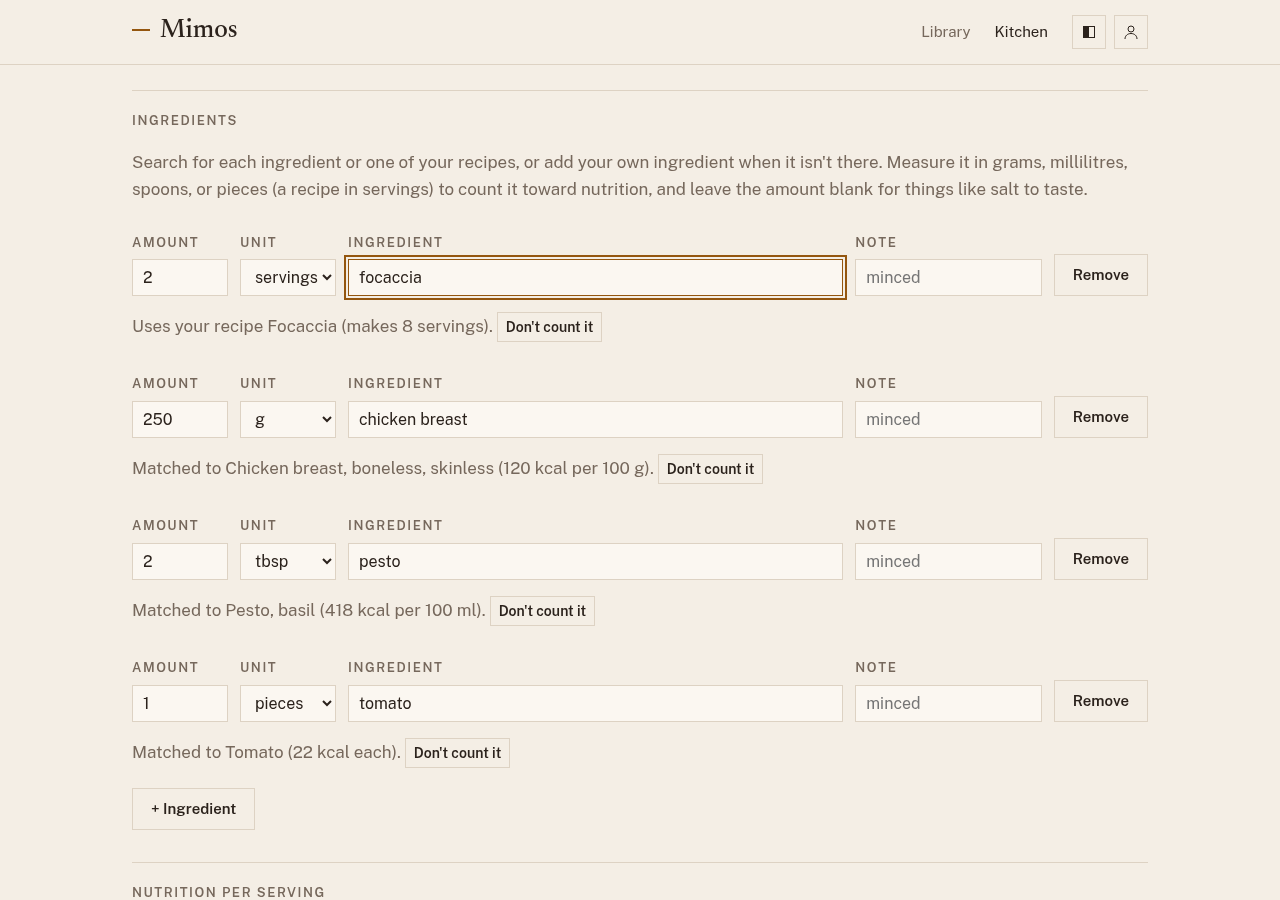
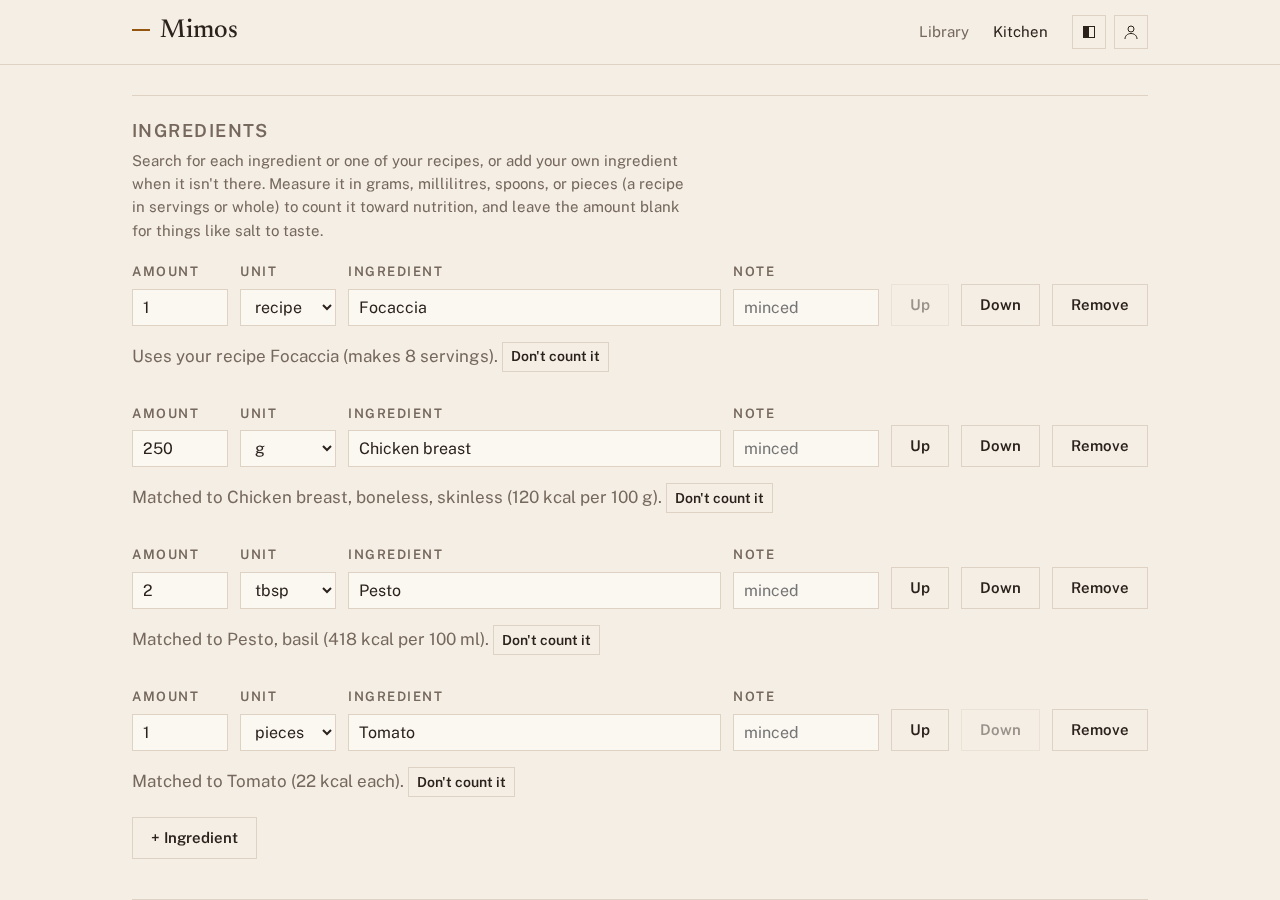
feat(web): label the whole-recipe unit recipe and cover it in the scenario
"whole recipe" did not fit the unit select. The recipe-as-ingredient
scenario now counts the whole focaccia and checks the 1x line; the guide's
screenshot shows it.

diff --git a/tools/harness/scenarios/recipe-as-ingredient.spec.ts b/tools/harness/scenarios/recipe-as-ingredient.spec.ts
@@ -6,7 +6,8 @@ import { expect, test } from "./fixtures.ts";
  * servings, and the sandwich's calculated nutrition counts it. The numbers
  * follow from the seeded ingredients: 500 g all-purpose flour and 50 ml
  * olive oil make 278 kcal a serving for 8; two servings of that and two
- * 22 kcal tomatoes make 300 kcal a serving for 2.
+ * 22 kcal tomatoes make 300 kcal a serving for 2. The whole focaccia
+ * (1 recipe, all 8 servings) and the tomatoes make 1134 kcal a serving.
  */
 test("uses one of your recipes as an ingredient", async ({ loggedInPage: page }) => {
   // Unique per run: the search must find this run's focaccia, not an earlier one's.
@@ -61,13 +62,18 @@ test("uses one of your recipes as an ingredient", async ({ loggedInPage: page })
     await expect(nutrition).toContainText("300 kcal");
   });
 
-  await test.step("a recipe counts in servings only", async () => {
+  await test.step("a recipe counts in servings or whole", async () => {
     await page.getByLabel("Ingredient 1 unit").selectOption("g");
-    await expect(row(1)).toContainText("Not counted. A recipe counts in servings.");
+    await expect(row(1)).toContainText("Not counted. A recipe counts in servings or as a whole recipe.");
     await page.getByLabel("Ingredient 1 unit").selectOption("servings");
     await expect(row(1)).not.toContainText("Not counted.");
     await expect(nutrition).toContainText("300 kcal");
     await expect(page.getByText("Counting 2 of 2 ingredients.")).toBeVisible();
+
+    await page.getByLabel("Ingredient 1 amount").fill("1");
+    await page.getByLabel("Ingredient 1 unit").selectOption("recipe");
+    await expect(row(1)).not.toContainText("Not counted.");
+    await expect(nutrition).toContainText("1134 kcal");
   });
 
   await test.step("save, and follow the line to the recipe it uses", async () => {
@@ -75,8 +81,9 @@ test("uses one of your recipes as an ingredient", async ({ loggedInPage: page })
     await page.getByRole("button", { name: "Create recipe" }).click();
     const recipe = page.locator("article.recipe");
     await expect(recipe.getByRole("heading", { name: sandwich, level: 1 })).toBeVisible();
-    await expect(recipe.locator(".per-serving")).toContainText("300 kcal");
-    await expect(recipe).toContainText("2 servings");
+    await expect(recipe.locator(".per-serving")).toContainText("1134 kcal");
+    const line = recipe.locator(".ingredients li").filter({ hasText: focaccia });
+    await expect(line).toHaveText(new RegExp(`^\\s*1x\\s+${focaccia}\\s*$`));
 
     await recipe.getByRole("link", { name: focaccia }).click();
     await expect(page.locator("article.recipe").getByRole("heading", { name: focaccia, level: 1 })).toBeVisible();

diff --git a/apps/web/src/components/recipe-form.tsx b/apps/web/src/components/recipe-form.tsx
@@ -38,7 +38,6 @@ import {
 } from "@/lib/ingredient-links";
 import {
   EMPTY_INGREDIENT,
-  RECIPE,
   formValuesOf,
   toEstimateInput,
   toRecipeInput,
@@ -285,7 +284,7 @@ export function RecipeForm({
             >
               {unitChoices(row.unit, Boolean(row.recipeId)).map((unit) => (
                 <option key={unit} value={unit}>
-                  {unit === "" ? "pieces" : unit === RECIPE ? "whole recipe" : unit}
+                  {unit === "" ? "pieces" : unit}
                 </option>
               ))}
             </select>

diff --git a/docs/guide/recipes.md b/docs/guide/recipes.md
@@ -99,18 +99,18 @@ sandwich made with the focaccia you bake from your own recipe. Type the
 recipe's name in an ingredient line: your recipes appear in the list
 too, marked **Your recipe** with the calories in one serving. Pick one,
 then give the amount in **servings** of it, like "2 servings focaccia", or
-in **whole recipe**, which counts every serving the other recipe makes
-whatever that is: "1 whole recipe" of a focaccia that makes 6 servings
+in **recipe**, the whole of it, which counts every serving the other
+recipe makes whatever that is: "1 recipe" of a focaccia that makes 6 servings
 is 6 servings. On the recipe page a whole-recipe line reads "1x
 Focaccia", with no unit ("2x", "0.5x").
 
-![A sandwich recipe using the focaccia recipe, measured in servings](../assets/screenshots/recipe-uses-recipe.png)
+![A sandwich recipe using the whole focaccia recipe](../assets/screenshots/recipe-uses-recipe.png)
 
 The line counts toward nutrition with the other recipe's nutrition per
 serving, as that recipe is now: change the focaccia and the sandwich
 follows. A line doesn't count when:
 
-- its unit is anything but servings or whole recipe, or
+- its unit is anything but servings or recipe, or
 - the other recipe's nutrition isn't known yet, because you left some of
   it blank or none of its ingredients count.
 
